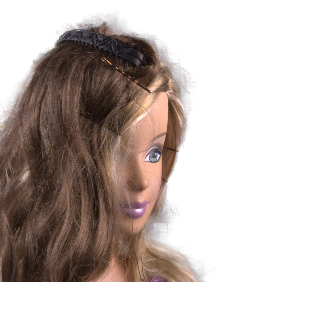
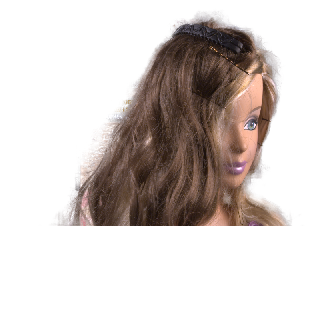
Implement video mode

diff --git a/deep-image-matting/deep-image-matting.py b/deep-image-matting/deep-image-matting.py
@@ -31,14 +31,14 @@ SEGMENTATION_REMOTE_PATH = 'https://storage.googleapis.com/ailia-models/deeplabv
 
 DEEPLABV3=True
 
-#IMAGE_PATH = 'input.png'
-#TRIMAP_PATH = 'trimap.png'
+IMAGE_PATH = 'input.png'
+TRIMAP_PATH = 'trimap.png'
 
 #IMAGE_PATH = 'couple.jpg'
 #TRIMAP_PATH = ''
 
-IMAGE_PATH = 'pixaboy.jpg'
-TRIMAP_PATH = ''
+#IMAGE_PATH = 'pixaboy.jpg'
+#TRIMAP_PATH = ''
 
 SAVE_IMAGE_PATH = 'output.png'
 IMAGE_HEIGHT = 320
@@ -107,10 +107,11 @@ def get_final_output(out, trimap):
 
 def postprocess(src_img, trimap, preds_ailia, use_trimap_directly=False):
     trimap = trimap[:,:,0].reshape((IMAGE_HEIGHT,IMAGE_WIDTH))
-    preds_ailia = preds_ailia.reshape((IMAGE_HEIGHT,IMAGE_WIDTH))
 
-    preds_ailia = preds_ailia * 255.0
-    preds_ailia = get_final_output(preds_ailia,trimap)
+    if not use_trimap_directly:
+        preds_ailia = preds_ailia.reshape((IMAGE_HEIGHT,IMAGE_WIDTH))
+        preds_ailia = preds_ailia * 255.0
+        preds_ailia = get_final_output(preds_ailia,trimap)
 
     output_data = np.zeros((IMAGE_HEIGHT,IMAGE_WIDTH,4))
     output_data[:,:,0]=src_img[:,:,0]
@@ -202,23 +203,11 @@ def gen_trimap(mask,k_size=(5,5),ite=1):
     return trimap
 
 
-def generate_trimap(args):
+def generate_trimap(net,input_data,w,h):
     if DEEPLABV3:
-        input_data = cv2.imread(args.input)
-        w = input_data.shape[1]
-        h = input_data.shape[0]
         input_data = cv2.resize(input_data, (513, 513))
         input_data = input_data / 127.5 - 1.0
         input_data = input_data.transpose((2,0,1))[np.newaxis, :, :, :]
-    else:
-        input_data, h, w = load_image(
-            args.input,
-            scaled_size=IMAGE_WIDTH,
-        )
-
-    env_id = ailia.get_gpu_environment_id()
-    print(f'env_id: {env_id}')
-    net = ailia.Net(SEGMENTATION_MODEL_PATH, SEGMENTATION_WEIGHT_PATH, env_id=env_id)
 
     preds_ailia = net.predict([input_data])
 
@@ -262,9 +251,35 @@ def generate_trimap(args):
     trimap_data = gen_trimap(trimap_data,k_size=(7,7),ite=3)
 
     im = Image.fromarray(trimap_data.astype('uint8'))
-    im.save("debug_trimap.png")
+    im.save("debug_trimap_full.png")
 
     return trimap_data,u2net_data
+
+def matting_preprocess(x,y,crop_size,src_img,trimap_data,seg_data,dump=False):
+    src_img=safe_crop(src_img, x, y, crop_size)
+    trimap_data=safe_crop(trimap_data, x, y, crop_size)
+
+    input_data = np.zeros((1,IMAGE_HEIGHT,IMAGE_WIDTH,4))
+    input_data[:,:,:,0:3] = src_img[:,:,0:3]
+
+    input_data[:,:,:,3] = trimap_data[:,:,0]
+    if dump:
+        im = Image.fromarray(input_data.reshape((IMAGE_HEIGHT,IMAGE_WIDTH,4)).astype('uint8'))
+        im.save("debug_input.png")
+    input_data = input_data / 255.0
+
+    if dump:
+        cv2.imwrite("debug_rgb.png", src_img)
+        cv2.imwrite("debug_trimap.png", trimap_data)
+
+        seg_data=safe_crop(seg_data, x, y, crop_size)
+        res_img = postprocess(src_img, seg_data, None, True)
+        cv2.imwrite("debug_segmentation_alpha.png", res_img)
+
+        res_img = postprocess(src_img, trimap_data, None, True)
+        cv2.imwrite("debug_trimap_alpha.png", res_img)
+
+    return input_data, src_img, trimap_data
 
 
 # ======================
@@ -272,43 +287,39 @@ def generate_trimap(args):
 # ======================
 def recognize_from_image():
     # prepare input data
-    rgb_data = cv2.imread(args.input)
     src_img = cv2.imread(args.input)
 
-    if args.trimap=="":
-        trimap_data,u2net_data = generate_trimap(args)
-    else:
-        trimap_data = cv2.imread(args.trimap)
-        u2net_data = trimap_data.copy()
-
-    if IMAGE_PATH=="input.png":
-        x = 320
-        y = 0
-        crop_size=(IMAGE_HEIGHT*2,IMAGE_WIDTH*2)
-    else:
-        x = 0
-        y = 0
-        crop_size=(IMAGE_HEIGHT,IMAGE_WIDTH)
-
-    rgb_data=safe_crop(rgb_data, x, y, crop_size)
-    trimap_data=safe_crop(trimap_data, x, y, crop_size)
-    u2net_data=safe_crop(u2net_data, x, y, crop_size)
-    src_img=safe_crop(src_img, x, y, crop_size)
-
-    input_data = np.zeros((1,IMAGE_HEIGHT,IMAGE_WIDTH,4))
-    input_data[:,:,:,0:3] = rgb_data[:,:,0:3]
-
-    input_data[:,:,:,3] = trimap_data[:,:,0]
-    im = Image.fromarray(input_data.reshape((IMAGE_HEIGHT,IMAGE_WIDTH,4)).astype('uint8'))
-    im.save("debug_input.png")
-    input_data = input_data / 255.0
-    
     # net initialize
     env_id = 0  # use cpu because overflow fp16 range
     #env_id = ailia.get_gpu_environment_id()   
     print(f'env_id: {env_id}')
     net = ailia.Net(MODEL_PATH, WEIGHT_PATH, env_id=env_id)
     net.set_input_shape((1,IMAGE_HEIGHT,IMAGE_WIDTH,4))
+
+    if args.trimap=="":
+        if DEEPLABV3:
+            input_data = cv2.imread(args.input)
+            w = input_data.shape[1]
+            h = input_data.shape[0]
+        else:
+            input_data, h, w = load_image(
+                args.input,
+                scaled_size=IMAGE_WIDTH,
+            )
+
+        env_id = ailia.get_gpu_environment_id()
+        net = ailia.Net(SEGMENTATION_MODEL_PATH, SEGMENTATION_WEIGHT_PATH, env_id=env_id)
+
+        trimap_data,seg_data = generate_trimap(net,input_data,w,h)
+    else:
+        trimap_data = cv2.imread(args.trimap)
+        seg_data = trimap_data.copy()
+
+    x = 0
+    y = 0
+    crop_size = (max(src_img.shape[0],src_img.shape[1]),max(src_img.shape[0],src_img.shape[1]))
+
+    input_data, src_img, trimap_data = matting_preprocess(x,y,crop_size,src_img,trimap_data,seg_data,dump=True)
 
     # inference
     print('Start inference...')
@@ -326,20 +337,19 @@ def recognize_from_image():
     res_img = postprocess(src_img, trimap_data, preds_ailia)
     cv2.imwrite(args.savepath, res_img)
 
-    res_img = postprocess(src_img, u2net_data, preds_ailia, True)
-    cv2.imwrite("debug_segmentation_alpha.png", res_img)
-
-    res_img = postprocess(src_img, trimap_data, preds_ailia, True)
-    cv2.imwrite("debug_trimap_alpha.png", res_img)
-
     print('Script finished successfully.')
 
 
 def recognize_from_video():
     # net initialize
-    env_id = ailia.get_gpu_environment_id()
+    #env_id = ailia.get_gpu_environment_id()
+    env_id = 0
     print(f'env_id: {env_id}')
     net = ailia.Net(MODEL_PATH, WEIGHT_PATH, env_id=env_id)
+    net.set_input_shape((1,IMAGE_HEIGHT,IMAGE_WIDTH,4))
+
+    env_id = ailia.get_gpu_environment_id()
+    seg_net = ailia.Net(SEGMENTATION_MODEL_PATH, SEGMENTATION_WEIGHT_PATH, env_id=env_id)
 
     if args.video == '0':
         print('[INFO] Webcam mode is activated')
@@ -362,16 +372,31 @@ def recognize_from_video():
             frame,
             IMAGE_HEIGHT,
             IMAGE_WIDTH,
-            normalize_type='255'
+            normalize_type='None'
         )
 
-        src_img = cv2.resize(src_img, (IMAGE_WIDTH, IMAGE_HEIGHT))
-        src_img = cv2.cvtColor(src_img, cv2.COLOR_BGR2RGB)
+        x = 0
+        y = 0
+        crop_size = (max(src_img.shape[0],src_img.shape[1]),max(src_img.shape[0],src_img.shape[1]))
+
+        w = src_img.shape[1]
+        h = src_img.shape[0]
+
+        print(input_data.shape)
+        trimap_data,seg_data = generate_trimap(seg_net,src_img,w,h)
+
+        input_data, src_img, trimap_data = matting_preprocess(x,y,crop_size,src_img,trimap_data,seg_data,dump=False)
 
         preds_ailia = net.predict(input_data)
 
-        res_img = postprocess(src_img, preds_ailia)
+        # postprocessing
+        res_img = postprocess(src_img, trimap_data, preds_ailia)
+        res_img[:,:,0]=res_img[:,:,0] * res_img[:,:,3] / 255.0
+        res_img[:,:,1]=res_img[:,:,1] * res_img[:,:,3] / 255.0 + 255.0 * (1.0 - res_img[:,:,3] / 255.0)
+        res_img[:,:,2]=res_img[:,:,2] * res_img[:,:,3] / 255.0
+
         cv2.imshow('frame', res_img / 255.0)
+        cv2.imshow('trimap_data', trimap_data / 255.0)
 
     capture.release()
     cv2.destroyAllWindows()

diff --git a/deep-image-matting/README.md b/deep-image-matting/README.md
@@ -24,14 +24,14 @@ For the sample image,
 $ python3 deep-image-matting.py
 ```
 
-If you want to specify the input image, put the image path after the `--input` option.  
+If you want to specify the input image, put the image path after the `--input` and `--trimap` option.  
 You can use `--savepath` option to change the name of the output file to save.
 ```bash
-$ python3 deep-image-matting.py --input IMAGE_PATH --savepath SAVE_IMAGE_PATH
+$ python3 deep-image-matting.py --input IMAGE_PATH --trimap TRIMAP_PATH --savepath SAVE_IMAGE_PATH
 ```
 
 By adding the `--video` option, you can input the video.   
-If you pass `0` as an argument to VIDEO_PATH, you can use the webcam input instead of the video file.
+If you pass `0` as an argument to VIDEO_PATH, you can use the webcam input instead of the video file. The trimap is generated by DeeplabV3.
 ```bash
 $ python3 deep-image-matting.py --video VIDEO_PATH
 ```
